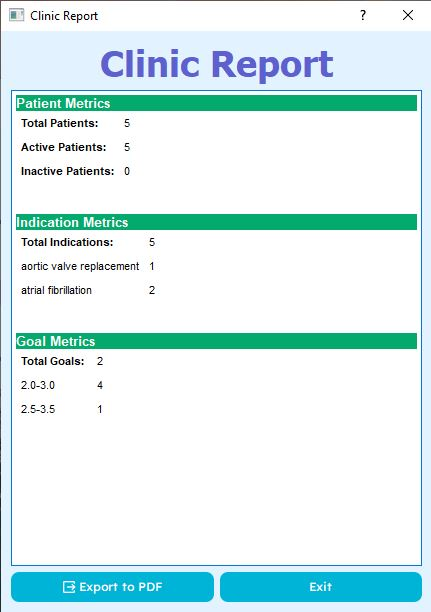
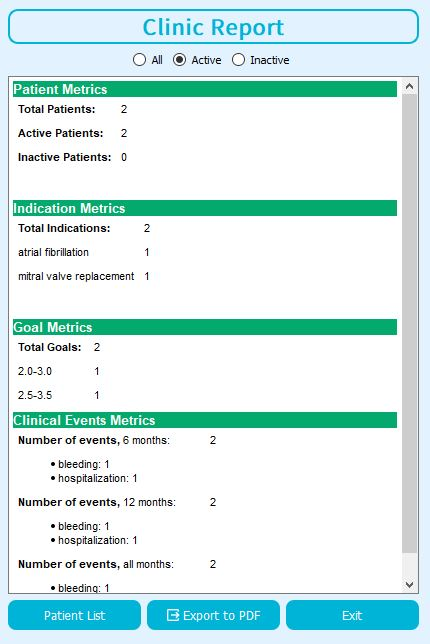
Added new screenshots and updated the help document

diff --git a/src/main.py b/src/main.py
@@ -1,3 +1,4 @@
+import sys
 import dateutil
 from dateutil.relativedelta import relativedelta
 from PyQt5.QtSql import *
@@ -114,100 +115,151 @@ class DlgMain(QMainWindow, Ui_dlgMain):
     def get_html_help(self):
         """Create and return an HTML string for the help document"""
         html = """
+<center><img src="../resource/screenshot/main.JPG"></center>
 
-<h2>INR Tracker</h2><br>
-<img src="screenshot/main.JPG"><br>
+    <h2>Introduction</h2>
+    <p>INR Tracker is a comprehensive desktop application intended to assist with the management of anticoagulation clinics.
+Specifically, for patients on warfarin. Overall, this application can create patient profiles, tracking of INR results,
+    record clinically significant events, and to derive metrics from data.</p>
 
-INR Tracker is a desktop application intended to assist with the management of Anticoagulation Clinics (specifically 
-for patients on warfarin). Overall, this application can create patient profiles, allow the input of INR results and 
-to produce analytics from those results. All information is stored into a relational database, which allows editing 
-and deleting of information.<br><br>
+    <p>All information is stored locally in a relational database called <b>inr_tracker.db</b>. <i>Deleting or moving
+        this file will erase all records.</i></p>
 
-Each patient has an <b>identifier</b>, which will be referred to as a medical record number (MRN). The MRN is added 
-upon creation of a new patient profile. The MRN cannot be changed later. If an MRN is on record, the patient profile 
-will be displayed.
-
-<hr>
-
-<h2>Patient Profile - Summary Tab</h2><br>
-<img src="screenshot/patient profile.JPG"><br>
-The patient profile is organized within two tabs: the <b>Summary</b> and <b>Results</b> tab. The summary tab will 
-display general information, including options to edit the patient profile, export patient information to CSV or PDF, 
-and producing patient specific analytics. 
+<p>Each patient has an <b>identifier</b>, which will be referred to as a medical record number (MRN). The MRN is added
+upon creation of a new patient profile. The MRN cannot be changed later. If an MRN is on record, the patient profile
+    will be displayed.</p>
 
 <hr>
 
-<h2>Patient Profile - Updating</h2><br>
-<img src="screenshot/edit profile.JPG"><br>
-The patient profile can also be edited, with the exception of the medical record number. Note that changing the status 
-to inactive will disable the ability to add, edit or delete results. The indication can be changed here, and new 
-indications can be added to the database. The INR goal can also be changed here as well.
+<h2>Creating a new patient profile</h2>
 
-<hr>
-
-<h2>Patient Profile - Results Tab</h2><br>
-<img src="screenshot/patient results.JPG"><br>
-The Results tab will display a table of results in the database. The information displayed are Date, INR, Goal, 
-Total Dose (in milligrams) and Comment. The INR column will be colored depending on if the INR is within goal, 
-supratherapeutic or subtherapeutic. The goal defaults to the INR goal established in the patient profile, but a 
-different goal can be specified for any specific result. <br>
-
-A single click in the Comment column will display the comment in a pop-up dialog window if the cell is not empty.
-<br><br>
-A double click on any of the other columns (or an empty Comment column) will automatically produce a dialog window to 
-update the result.
-
-
-<hr>
-
-<h2>Add/Update Result</h2><br>
-<img src="screenshot/add result.JPG"><br>
+<center><img src="../resource/screenshot/new patient.jpg"></center>
 <ul>
-    <li>When adding a result to the patient’s profile, a dialog window will appear. The date is defaulted to the 
-    current date, but can be changed.</li>
-    <li>Clicking the “No Changes” dialog box will prepopulate the dose with the most recent regimen on file. </li>
-    <li>The INR goal will also default to the goal that has been entered for the patient, but a new INR can be 
-    specified in certain cases (e.g. a lower goal for a procedure). </li>
-    <li>A comment can be entered as well.</li>
+    <li>From the main window, click on the "New Patient" button. A New Patient dialog will appear.</li>
+    <li>Enter the requested information: medical record number, first name, last name, date of birth (YYYY-MM-DD),
+        indications and INR goal. Note that the anticoagulation status can only be Active for new patients.</li>
+    <li>New indications can be entered where prompted, or from the main menu.</li>
+    <li>Invalid entries in any of the text boxes, or failure to enter at least one indication, will cause an error
+        message to appear.</li>
 </ul>
 
+<h2>Patient Profile - Summary Tab</h2>
+<center><img src="../resource/screenshot/patient profile.JPG"></center>
+
+<ul>
+    <li>From the main window, a medical record number can be entered and searched for. If a matching record is found, the patient profile will appear.</li>
+    <li>Patient profiles are organized into tabs:
+    <ul>
+        <li>Summary - display a summary of information; contains various patient functions</li>
+        <li>Results - display, add, edit and delete INR results</li>
+        <li>Events - display, add, edit and delete clinically significant events</li>
+    </ul></li>
+</ul>
+
+<p>Other functionalities include the following:</p>
+<ul>
+    <li>Edit Patient</li>
+    <li>Analytics</li>
+    <li>Export to PDF</li>
+    <li>Export to CSV</li>
+</ul>
 
 <hr>
 
-<h2>Patient Analytics</h2><br>
-<img src="screenshot/patient analytics.JPG"><br>
-Analytics can be produced if patient has at least two results on record. The TTR is calculated using the Rosendaal 
-linear interpolation method. Other information includes total days on record, days within range, percent of days 
-within range, total number of tests, number of tests in range, and percent of test in range.
+<h2>Patient Profile - Editing</h2>
+<center><img src="../resource/screenshot/patient_profile_edit.JPG"></center>
+<p>
+    The patient profile can also be edited, <b>with the exception of the medical record number</b>. Changing the status
+to inactive will disable the ability to add, edit or delete results and events. Note that the INR goal in the patient
+profile should not be changed for temporary changes in the goal (e.g. a lower goal for an upcoming procedure).
+Instead, a different INR goal can be provided when entering or editing a result.
+</p>
 
 <hr>
 
-<h2>Patient Summary PDF</h2><br>
-<img src="screenshot/patient pdf.JPG" width=500><br>
-A summary report can be saved for each patient. The purpose of this function is to be able to provide relevant 
-anticoagulation information to medical facilities requesting for such information.
+<h2>Patient Analytics</h2>
+<center><img src="../resource/screenshot/patient analytics.JPG"></center>
+<p>
+Analytics can be produced if patient has at least two results on record. The TTR is calculated using the Rosendaal
+linear interpolation method. Other information includes total days on record, days within range, percent of days
+within range, total number of tests, number of tests in range, and percent of test in range. The number of clinical
+events is also displayed for the past 6 months, 12 months, and all time.
+</p>
 
 <hr>
 
-<h2>New Patient Profile</h2><br>
-<img src="screenshot/new patient.JPG"><br>
-A new patient profile can be entered from the main menu. The Status is referring to a patient’s anticoagulation 
-status. Examples of an inactive patient can include those who have finished treatment for an acute VTE, or those that 
-have transferred care to another facility. By default, you can only create a patient profile with an active status. 
-Note that the date of birth has to be entered in the YYYY-MM-DD format.
+<h2>Export To PDF</h2>
+<center><img src="../resource/screenshot/patient pdf.JPG"></center>
+<p>
+A summary report can be saved for each patient. This report can be provided at the request of medical facilities
+    requesting for records.
+</p>
 
 <hr>
 
-<h2>Indications</h2><br>
-<img src="screenshot/indication.JPG"><br>
-The list of indications on record can also be edited. Note that validation methods are in place to prevent duplicate 
-entries. Best practice is to avoid abbreviations of indications.
+<h2>Patient Profile - Results Tab</h2>
+<center><img src="../resource/screenshot/patient results.JPG"></center>
+<p>The Results tab will display a table of results in the database. The information displayed are Date, INR, Goal,
+    Total Dose (in milligrams) and Comment. </p>
+
+<p>The INR column will be colored depending if the result is within goal,
+    supratherapeutic or subtherapeutic. The goal defaults to the INR goal established in the patient profile, but a
+    different goal can be specified for any specific result.</p>
+
+<p>A single click in the Comment column will display the comment in a pop-up dialog window if the cell is not empty.
+</p>
+
+<p>A double click on any of the other columns (or an empty Comment column) will automatically produce a dialog window to
+    update the result.</p>
 
 <hr>
 
-<h2>Clinic Summary</h2><br>
-<img src="screenshot/clinic report.JPG"><br>
-A clinic report can be generated with certain metrics. The information can also be exported to a PDF format if desired.
+<h2>Add/Update Result</h2>
+<center><img src="../resource/screenshot/add result.JPG">
+<img src="../resource/screenshot/edit result.jpg"></center>
+<ul>
+    <li>When adding a result to the patient’s profile, a dialog window will appear. The date is defaulted to the
+        current date, but can be changed.</li>
+    <li>Clicking the “No Changes” checkbox will pre-populate the dose with the most recent regimen on file. </li>
+    <li>The INR goal will also default to the goal that has been entered for the patient, but a new INR can be
+        specified in certain cases (e.g. a lower goal for a procedure). </li>
+    <li>A comment can be entered.</li>
+</ul>
+
+<hr>
+
+<h2>Patient Profile - Events Tab</h2>
+<center>
+<img src="../resource/screenshot/event.JPG">
+<img src="../resource/screenshot/add event.jpg">
+<img src="../resource/screenshot/edit event.jpg"></center>
+
+<p>The Events tab will display a table of events in the database. The information displayed are Date, Clinical Event,
+    and Comment.</p>
+<p>If more than one event is entered per date, the comment will only appear once instead of for each individual event.
+    When editing events, only the comment can be changed. If anything else needs to be changed, it is best to delete
+    the event and re-enter with the updated information.</p>
+
+<hr>
+
+<h2>Indications</h2>
+<center><img src="../resource/screenshot/indication.JPG"></center>
+<p>Displays all the indications entered. Indications can be added, edited or deleted from this window. It is best to avoid
+    abbreviations (e.g. afib, dvt, pe). It is best to denote treatment versus prophylaxis in parentheses. For example:
+    "pulmonary embolism (treatment)" and "pulmonary embolism (prophylaxis)."</p>
+
+<hr>
+
+<h2>Events</h2>
+<center><img src="../resource/screenshot/event_list"></center>
+<p>Displays all the events entered. Events can be added, edited or deleted from this window.</p>
+
+<hr>
+
+<h2>Clinic Summary</h2>
+<center><img src="../resource/screenshot/clinic report.JPG"></center>
+<p>A clinic report can be generated with certain metrics. These metrics can be toggled between All patients, Active 
+    patients and Inactive patients. The information can also be exported to a PDF format if desired.</p>
         """
         return html
 

diff --git a/src/ui/help.py b/src/ui/help.py
@@ -14,7 +14,13 @@ from PyQt5 import QtCore, QtGui, QtWidgets
 class Ui_DlgHelp(object):
     def setupUi(self, DlgHelp):
         DlgHelp.setObjectName("DlgHelp")
-        DlgHelp.resize(843, 856)
+        DlgHelp.resize(853, 853)
+        sizePolicy = QtWidgets.QSizePolicy(QtWidgets.QSizePolicy.Minimum, QtWidgets.QSizePolicy.Minimum)
+        sizePolicy.setHorizontalStretch(0)
+        sizePolicy.setVerticalStretch(0)
+        sizePolicy.setHeightForWidth(DlgHelp.sizePolicy().hasHeightForWidth())
+        DlgHelp.setSizePolicy(sizePolicy)
+        DlgHelp.setMinimumSize(QtCore.QSize(853, 853))
         palette = QtGui.QPalette()
         brush = QtGui.QBrush(QtGui.QColor(226, 242, 255))
         brush.setStyle(QtCore.Qt.SolidPattern)
@@ -52,7 +58,7 @@ class Ui_DlgHelp(object):
 "    background-color: #00b4d8;\n"
 "    color: white;\n"
 "    border-radius: 8px;\n"
-"    font-family: \"Readex Pro\";\n"
+"    font-family: \"Raleway\";\n"
 "    font: 12px;\n"
 "}\n"
 "\n"
@@ -64,37 +70,39 @@ class Ui_DlgHelp(object):
 "    border: 2px  solid gray;\n"
 "    border-radius: 10px;\n"
 "    padding: 5px;\n"
-"    font-family:  \"Readex Pro\";\n"
+"    font-family:  \"Raleway\";\n"
 "    font: 12px;\n"
 "\n"
 "}\n"
 "\n"
 "\n"
 "QLabel#lblHeader {\n"
-"    color: #5E60CE;\n"
-"    font-family: \"Raleway\";\n"
-"    font-size: 36px;    \n"
+"    color: #00b4d8;\n"
+"    font-size: 24px;    \n"
 "    font-weight: bold;\n"
-"    margin: 0;\n"
+"    font-family: \"Source Sans Pro\";\n"
+"    border: 2px solid #00b4d8;\n"
+"    border-radius: 10px;\n"
 "}")
-        self.widget = QtWidgets.QWidget(DlgHelp)
-        self.widget.setGeometry(QtCore.QRect(10, 20, 821, 821))
-        self.widget.setObjectName("widget")
-        self.lytMain = QtWidgets.QVBoxLayout(self.widget)
+        self.layoutWidget = QtWidgets.QWidget(DlgHelp)
+        self.layoutWidget.setGeometry(QtCore.QRect(10, 20, 831, 821))
+        self.layoutWidget.setObjectName("layoutWidget")
+        self.lytMain = QtWidgets.QVBoxLayout(self.layoutWidget)
         self.lytMain.setContentsMargins(0, 0, 0, 0)
         self.lytMain.setObjectName("lytMain")
-        self.lblHeader = QtWidgets.QLabel(self.widget)
+        self.lblHeader = QtWidgets.QLabel(self.layoutWidget)
+        self.lblHeader.setMinimumSize(QtCore.QSize(0, 0))
         self.lblHeader.setAlignment(QtCore.Qt.AlignCenter)
         self.lblHeader.setObjectName("lblHeader")
         self.lytMain.addWidget(self.lblHeader)
-        self.tbrDocument = QtWidgets.QTextBrowser(self.widget)
+        self.tbrDocument = QtWidgets.QTextBrowser(self.layoutWidget)
         self.tbrDocument.setObjectName("tbrDocument")
         self.lytMain.addWidget(self.tbrDocument)
         self.lytButton = QtWidgets.QHBoxLayout()
         self.lytButton.setObjectName("lytButton")
         spacerItem = QtWidgets.QSpacerItem(40, 20, QtWidgets.QSizePolicy.Expanding, QtWidgets.QSizePolicy.Minimum)
         self.lytButton.addItem(spacerItem)
-        self.btnExit = QtWidgets.QPushButton(self.widget)
+        self.btnExit = QtWidgets.QPushButton(self.layoutWidget)
         self.btnExit.setMinimumSize(QtCore.QSize(60, 30))
         self.btnExit.setObjectName("btnExit")
         self.lytButton.addWidget(self.btnExit)
@@ -108,6 +116,7 @@ class Ui_DlgHelp(object):
         DlgHelp.setWindowTitle(_translate("DlgHelp", "Help"))
         self.lblHeader.setText(_translate("DlgHelp", "Help"))
         self.btnExit.setText(_translate("DlgHelp", "Exit"))
+import resource.resource_rc
 
 
 if __name__ == "__main__":

diff --git a/src/clinic/help.py b/src/clinic/help.py
@@ -1,5 +1,4 @@
 from PyQt5.QtWidgets import QDialog
-
 from src.ui.help import Ui_DlgHelp
 
 
